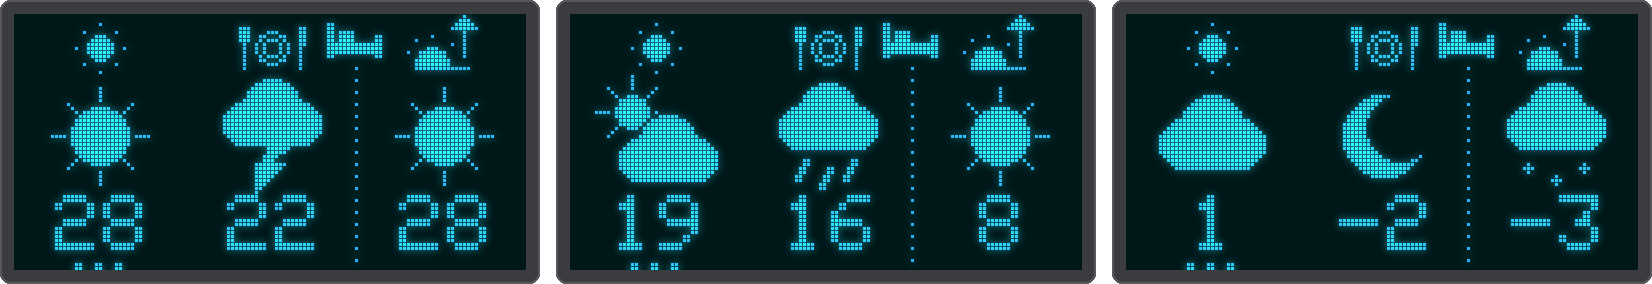
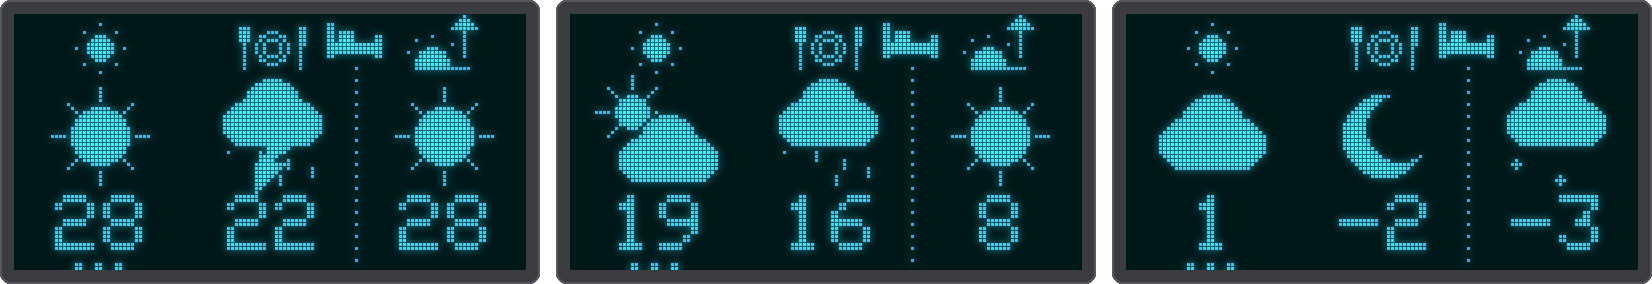
Kids weather screen: rain and snow fall onto the numbers
On the weather screen the rain now falls from its cloud and splashes on the
top edge of the column's number; drops beside the number vanish without a
splash, so the digits stay readable. Snow drifts down and melts into the
number. How hard it rains or snows in the part's wettest hour sets the
number and speed of the drops or flakes: drizzle (under 0.5 mm), rain (to
2 mm), heavy (to 5 mm), a downpour. A thunderstorm gets the same rain beside
its bolt. The screen animates (15 frames per second) only while a column
shows rain, a storm or snow; the clothes screen stays still.

The clouds of these pictures sit 1 px higher to give the drops room. The
manual gets animated pictures of a wet and a snowy day.

Claude-Session: https://claude.ai/code/session_01BgTn1WcpSUXFywgbLdTvzG

diff --git a/firmware/src/display.cpp b/firmware/src/display.cpp
@@ -1019,7 +1019,46 @@ static void drawSmallSky(Adafruit_SSD1306 &d, int cx, int cy, int r, int light) 
     else drawSmallSun(d, cx, cy, r);
 }
 
-static void drawSmallWeather(Adafruit_SSD1306 &d, int cx, int weather, int light) {
+// Rain or snow falling from a small cloud onto the column's number, animated by `frame` (15 per second).
+// `level` (KIDS_PRECIP_*) sets how many drops or flakes there are and how fast they fall. Drops splash on the
+// top edge of the number (x numLeft..numRight) and vanish beside it; flakes melt into it.
+static void drawSmallPrecip(Adafruit_SSD1306 &d, int cx, bool snow, int level, unsigned long frame, int numLeft,
+                            int numRight) {
+    static const uint8_t DROPS[4] = { 2, 3, 5, 7 }, FLAKES[4] = { 2, 3, 4, 6 };
+    static const uint8_t DROP_SPEED[4] = { 1, 2, 2, 3 };   // px per frame
+    static const uint8_t DROP_LEN[4] = { 2, 2, 3, 3 };
+    const int top = 34, ground = 44;                       // under the cloud, just above the number (y 45)
+    const unsigned fall = ground - top + 1;
+    if (level < 0 || level > 3) level = 0;
+    unsigned n = snow ? FLAKES[level] : DROPS[level];
+    unsigned long steps = snow ? (level >= KIDS_PRECIP_HEAVY ? frame : frame / 2) : frame * DROP_SPEED[level];
+    for (unsigned k = 0; k < n; k++) {
+        unsigned long t = steps + k * fall * 7 / n;        // every drop on its own cycle
+        unsigned cycle = (unsigned)(t / fall), pos = (unsigned)(t % fall);
+        int x = cx - 11 + (int)((k * 7 + cycle * 5 + k * cycle * 3) % 23);   // a new place every cycle
+        int y = top + (int)pos;
+        if (snow) {
+            if (y < top + 1 || y > ground - 1) continue;   // still in the cloud, or melted into the number
+            int fx = x + (int)((cycle + pos / 3) % 2);     // drifting a little
+            d.drawFastHLine(fx - 1, y, 3, SSD1306_WHITE);
+            d.drawFastVLine(fx, y - 1, 3, SSD1306_WHITE);
+            continue;
+        }
+        if (pos + DROP_SPEED[level] >= fall) {             // landing
+            if (x >= numLeft && x <= numRight) {
+                d.drawPixel(x - 1, ground - 1, SSD1306_WHITE);
+                d.drawPixel(x + 1, ground - 1, SSD1306_WHITE);
+                d.drawPixel(x - 2, ground, SSD1306_WHITE);
+                d.drawPixel(x + 2, ground, SSD1306_WHITE);
+            }
+            continue;
+        }
+        for (int j = 0; j < DROP_LEN[level] && y - j >= top; j++) d.drawPixel(x, y - j, SSD1306_WHITE);
+    }
+}
+
+static void drawSmallWeather(Adafruit_SSD1306 &d, int cx, int weather, int light, int precip, unsigned long frame,
+                             int numLeft, int numRight) {
     const int y = 17;
     switch (weather) {
     case KIDS_WEATHER_PARTLY:
@@ -1030,26 +1069,20 @@ static void drawSmallWeather(Adafruit_SSD1306 &d, int cx, int weather, int light
     case KIDS_WEATHER_CLOUDY:
         drawSmallCloud(d, cx, y + 4, 1, SSD1306_WHITE);
         break;
+    // Rain, a storm and snow: the cloud a little higher, so they fall a little longer
     case KIDS_WEATHER_RAIN:
-        drawSmallCloud(d, cx, y, 0, SSD1306_WHITE);
-        for (int i = 0; i < 3; i++) {
-            int x = cx - 6 + i * 6, yy = y + 19 + (i % 2) * 2;
-            d.drawLine(x, yy, x - 2, yy + 5, SSD1306_WHITE);
-            d.drawLine(x + 1, yy, x - 1, yy + 5, SSD1306_WHITE);
-        }
+        drawSmallCloud(d, cx, y - 1, 0, SSD1306_WHITE);
+        drawSmallPrecip(d, cx, false, precip, frame, numLeft, numRight);
         break;
     case KIDS_WEATHER_STORM:
         drawSmallCloud(d, cx, y - 1, 0, SSD1306_WHITE);
         d.fillTriangle(cx - 1, y + 15, cx + 5, y + 15, cx - 3, y + 21, SSD1306_WHITE);   // lightning bolt
         d.fillTriangle(cx - 4, y + 20, cx + 3, y + 20, cx - 4, y + 27, SSD1306_WHITE);
+        drawSmallPrecip(d, cx, false, precip, frame, numLeft, numRight);
         break;
     case KIDS_WEATHER_SNOW:
-        drawSmallCloud(d, cx, y, 0, SSD1306_WHITE);
-        for (int i = 0; i < 3; i++) {
-            int x = cx - 7 + i * 7, yy = y + 21 + (i % 2) * 3;
-            d.drawFastHLine(x - 1, yy, 3, SSD1306_WHITE);
-            d.drawFastVLine(x, yy - 1, 3, SSD1306_WHITE);
-        }
+        drawSmallCloud(d, cx, y - 1, 0, SSD1306_WHITE);
+        drawSmallPrecip(d, cx, true, precip, frame, numLeft, numRight);
         break;
     case KIDS_WEATHER_WIND:
         for (int i = 0; i < 3; i++) {
@@ -1138,7 +1171,7 @@ static void drawNightDivider(Adafruit_SSD1306 &d, int column) {
 }
 
 void renderKidsDayStrip(Adafruit_SSD1306 &d, const KidsColumn* cols, size_t count, int nowColumn,
-                        int nightBefore, bool weather) {
+                        int nightBefore, bool weather, unsigned long frame) {
     d.clearDisplay();
     d.setTextColor(SSD1306_WHITE);
     d.setTextWrap(false);
@@ -1151,10 +1184,10 @@ void renderKidsDayStrip(Adafruit_SSD1306 &d, const KidsColumn* cols, size_t coun
             d.setCursor(cx - 5, 26);
             d.print('?');
         } else if (weather) {
-            drawSmallWeather(d, cx, c.weather, c.light);
             char num[8];
             snprintf(num, sizeof(num), "%d", c.temp);
             int w = (int)strlen(num) * 12 - 2;
+            drawSmallWeather(d, cx, c.weather, c.light, c.precip, frame, cx - w / 2, cx - w / 2 + w - 1);
             d.setTextSize(2);
             d.setCursor(cx - w / 2, 45);
             d.print(num);

diff --git a/tools/screenshots_host/screens.cpp b/tools/screenshots_host/screens.cpp
@@ -69,12 +69,13 @@ static size_t columns(const Day& day, KidsColumn* cols, KidsPart* parts, size_t 
     for (size_t i = 0; i < np; i++) {
         KidsOutlook o = kidsPartOutlook(hours, parts[i], LIMITS);
         int shown = kidsShownPart(parts[i].part, parts[i].now, day.now, evening);
-        cols[i] = KidsColumn{ shown, o.valid, o.outfit, o.weather, o.light, o.tempC };
+        cols[i] = KidsColumn{ shown, o.valid, o.outfit, o.weather, o.light, o.tempC, o.precip };
     }
     return np;
 }
 
-static void dayStrip(const Day& day, bool weather, bool nightColumn = false, int evening = KIDS_DINNER_HOUR) {
+static void dayStrip(const Day& day, bool weather, bool nightColumn = false, int evening = KIDS_DINNER_HOUR,
+                     unsigned long frame = 0) {
     KidsPart parts[3];
     KidsColumn cols[3];
     size_t np = columns(day, cols, parts, 3, nightColumn, evening);
@@ -83,7 +84,7 @@ static void dayStrip(const Day& day, bool weather, bool nightColumn = false, int
         if (parts[i].now) nowColumn = (int)i;
         if (parts[i].afterSleep && i > 0 && nightBefore < 0) nightBefore = (int)i;
     }
-    renderKidsDayStrip(d, cols, np, nowColumn, nightBefore, weather);
+    renderKidsDayStrip(d, cols, np, nowColumn, nightBefore, weather, frame);
 }
 
 // 10:00 in autumn: 12 in the morning, warming up to 19, rain in the evening
@@ -105,6 +106,19 @@ static Hour winterMorning(int h) {
     if (h < 12) x.rainMm = 0.5f;
     return x;
 }
+// 10:00 on a wet day: drizzle this morning, heavy rain this afternoon, a downpour with thunder at dinner
+static Hour wetDay(int h) {
+    if (h < 12) return Hour{ 13, 0.3f, 15, 51 };
+    if (h < 18) return Hour{ 15, 3.0f, 20, 63 };
+    return Hour{ 12, 8.0f, 30, 95 };
+}
+// 10:00 in winter: light snow this morning, heavy snow this afternoon, snowing hard at dinner
+static Hour snowDay(int h) {
+    if (h < 12) return Hour{ -1, 0.3f, 10, 71 };
+    if (h < 18) return Hour{ -2, 3.0f, 15, 73 };
+    return Hour{ -4, 6.0f, 15, 75 };
+}
+
 // 13:00 in summer: hot and sunny, a thunderstorm in the evening
 static Hour summerAfternoon(int h) {
     Hour x = { h < 18 ? 28.0f : 22.0f, 0, 20, h < 18 ? 0 : (h < 20 ? 95 : 2) };
@@ -132,6 +146,13 @@ static void kidsScreens() {
     // The sunset evening instead of dinner: a summer afternoon and a winter morning
     dayStrip(makeDay(13, 6, 21, summerAfternoon), true, false, KIDS_SUNSET_EVENING);   frame("kids-sunset", 0);
     dayStrip(makeDay(8, 8, 17, winterMorning), true, false, KIDS_SUNSET_EVENING);      frame("kids-sunset", 1);
+    // Rain and snow falling on the numbers, from drizzle to a downpour
+    for (int f = 0; f < 45; f++) {
+        dayStrip(makeDay(10, 7, 19, wetDay), true, false, KIDS_DINNER_HOUR, f);  frame("kids-rain", f);
+    }
+    for (int f = 0; f < 45; f++) {
+        dayStrip(makeDay(10, 8, 17, snowDay), true, false, KIDS_DINNER_HOUR, f); frame("kids-snow", f);
+    }
 
     // Leaves blowing over the autumn evening's weather screen
     initWindAnimation(WIND_AREA_KIDS);
@@ -180,7 +201,7 @@ static void village(const VillageScene& s, int windFrames) {
     }
     KidsOutlook o = kidsNowOutlook(hours, s.day.count, LIMITS);
     int part = partOfDay(s.day.now, KIDS_DINNER_HOUR);
-    KidsColumn col = { kidsShownPart(part, true, s.day.now, KIDS_DINNER_HOUR), o.valid, o.outfit, o.weather, o.light, o.tempC };
+    KidsColumn col = { kidsShownPart(part, true, s.day.now, KIDS_DINNER_HOUR), o.valid, o.outfit, o.weather, o.light, o.tempC, o.precip };
     bool any = s.day.count > 0;
     initWindAnimation(WIND_AREA_RIDE);
     hostSeed(5);

diff --git a/firmware/src/main.cpp b/firmware/src/main.cpp
@@ -509,7 +509,7 @@ static size_t kidsColumns(KidsColumn* cols, KidsPart* parts, size_t max, bool ni
         // One number per part, shown on the weather screen and the one the outfit goes by
         KidsOutlook o = kidsPartOutlook(hours, parts[i], kidsLimits);
         int shown = kidsShownPart(parts[i].part, parts[i].now, localHours[0], kidsEveningStart());
-        cols[i] = KidsColumn{ shown, o.valid, o.outfit, o.weather, o.light, kidsShownTemp((float)o.tempC) };
+        cols[i] = KidsColumn{ shown, o.valid, o.outfit, o.weather, o.light, kidsShownTemp((float)o.tempC), o.precip };
     }
     return np;
 }
@@ -517,16 +517,22 @@ static size_t kidsColumns(KidsColumn* cols, KidsPart* parts, size_t max, bool ni
 /**
  * Kids variant: the next three parts of the day, as outfits or as weather
  */
+static bool kidsPrecipFalling = false;   // the weather screen shows rain or snow: it animates
+
 void renderKids(bool weather) {
     KidsPart parts[3];
     KidsColumn cols[3];
     size_t np = kidsColumns(cols, parts, 3, kidsNightColumn);
     int nowColumn = -1, nightBefore = -1;
+    bool falling = false;
     for (size_t i = 0; i < np; i++) {
         if (parts[i].now) nowColumn = (int)i;
         if (parts[i].afterSleep && i > 0 && nightBefore < 0) nightBefore = (int)i;
+        falling |= cols[i].valid && (cols[i].weather == KIDS_WEATHER_RAIN || cols[i].weather == KIDS_WEATHER_STORM ||
+                                     cols[i].weather == KIDS_WEATHER_SNOW);
     }
-    renderKidsDayStrip(display, cols, np, nowColumn, nightBefore, weather);
+    kidsPrecipFalling = weather && falling;
+    renderKidsDayStrip(display, cols, np, nowColumn, nightBefore, weather, millis() / RAIN_FRAME_INTERVAL);
 }
 
 /**
@@ -540,7 +546,7 @@ void renderKidsVillage() {
     KidsOutlook o = kidsNowOutlook(hours, count, kidsLimits);
     int part = count ? partOfDay(localHours[0], kidsEveningStart()) : KIDS_PART_MORNING;
     KidsColumn col = { count ? kidsShownPart(part, true, localHours[0], kidsEveningStart()) : part, o.valid, o.outfit,
-                       o.weather, o.light, kidsShownTemp((float)o.tempC) };
+                       o.weather, o.light, kidsShownTemp((float)o.tempC), o.precip };
     WeatherData weather = getCurrentWeather();
     char tempStr[8];
     snprintf(tempStr, sizeof(tempStr), "%d%c", kidsShownTemp(weather.tempC), weatherUnits == "imperial" ? 'F' : 'C');
@@ -1326,6 +1332,7 @@ void loop() {
             } else if (state.windAnimationActive) {
                 stopWindAnimation();
             }
+            if (screen == SCREEN_WEATHER && kidsPrecipFalling) state.displayDirty = true;   // rain and snow fall
         } else if (screen == SCREEN_COUNTDOWN) {
             KidsCountdown countdown = kidsCountdownNow();
             if (countdown.active && countdown.sleeps == 0) state.displayDirty = true;   // confetti on the day itself

diff --git a/firmware/lib/motologic/motologic.cpp b/firmware/lib/motologic/motologic.cpp
@@ -141,8 +141,9 @@ static int wetRank(int weather) {
 }
 
 KidsOutlook kidsWindowOutlook(const KidsHour* hours, size_t from, size_t to, const KidsLimits& l) {
-    KidsOutlook o = { false, OUTFIT_MILD, KIDS_WEATHER_CLEAR, false, 0, 0, (int)from, KIDS_LIGHT_DAY };
-    float tempSum = 0, tempMax = -1000;
+    KidsOutlook o = { false, OUTFIT_MILD, KIDS_WEATHER_CLEAR, false, 0, 0, (int)from, KIDS_LIGHT_DAY,
+                      KIDS_PRECIP_DRIZZLE };
+    float tempSum = 0, tempMax = -1000, wetMm = 0;
     int n = 0, nights = 0, wettest = KIDS_WEATHER_CLEAR;
     int skyCount[7] = { 0, 0, 0, 0, 0, 0, 0 };
     for (size_t i = from; i < to; i++) {
@@ -151,6 +152,7 @@ KidsOutlook kidsWindowOutlook(const KidsHour* hours, size_t from, size_t to, con
         int w = kidsHourWeather(h, l);
         if (isWet(h, w)) {
             if (wetRank(w) > wetRank(wettest)) wettest = w;
+            if (h.rainMm > wetMm) wetMm = h.rainMm;
         } else if (wetRank(w) == 0) {
             skyCount[w]++;
         } else {
@@ -168,6 +170,7 @@ KidsOutlook kidsWindowOutlook(const KidsHour* hours, size_t from, size_t to, con
     o.light = o.night ? KIDS_LIGHT_DARK : KIDS_LIGHT_DAY;
     if (wetRank(wettest) > 0) {
         o.weather = wettest;
+        o.precip = kidsPrecipLevel(wetMm);
     } else {
         static const int sky[4] = { KIDS_WEATHER_CLEAR, KIDS_WEATHER_PARTLY, KIDS_WEATHER_CLOUDY, KIDS_WEATHER_WIND };
         int best = KIDS_WEATHER_CLEAR;
@@ -230,6 +233,13 @@ KidsOutlook kidsNowOutlook(const KidsHour* hours, size_t count, const KidsLimits
     o.tempC = (int)lroundf(hours[0].tempC);
     o.outfit = outfitFor(hours[0].tempC, o.weather, o.night, l);
     return o;
+}
+
+int kidsPrecipLevel(float mm) {
+    if (!(mm >= 0.5f)) return KIDS_PRECIP_DRIZZLE;
+    if (mm < 2.0f) return KIDS_PRECIP_RAIN;
+    if (mm < 5.0f) return KIDS_PRECIP_HEAVY;
+    return KIDS_PRECIP_DOWNPOUR;
 }
 
 int partOfDay(int localHour, int dinnerHour) {

diff --git a/test/test_logic/test_logic.cpp b/test/test_logic/test_logic.cpp
@@ -446,6 +446,28 @@ void test_kids_now_outlook() {
     TEST_ASSERT_FALSE(kidsNowOutlook(h, 5, K).valid);
 }
 
+void test_kids_precip_level() {
+    TEST_ASSERT_EQUAL(KIDS_PRECIP_DRIZZLE, kidsPrecipLevel(0.2f));
+    TEST_ASSERT_EQUAL(KIDS_PRECIP_DRIZZLE, kidsPrecipLevel(0.49f));
+    TEST_ASSERT_EQUAL(KIDS_PRECIP_RAIN, kidsPrecipLevel(0.5f));
+    TEST_ASSERT_EQUAL(KIDS_PRECIP_RAIN, kidsPrecipLevel(1.9f));
+    TEST_ASSERT_EQUAL(KIDS_PRECIP_HEAVY, kidsPrecipLevel(2.0f));
+    TEST_ASSERT_EQUAL(KIDS_PRECIP_DOWNPOUR, kidsPrecipLevel(5.0f));
+    TEST_ASSERT_EQUAL(KIDS_PRECIP_DRIZZLE, kidsPrecipLevel(NAN));
+
+    // A part goes by its wettest hour
+    KidsHour h[3] = { hr(10, 0.6f, 61), hr(10, 3.0f, 63), hr(10, 0, 1) };
+    KidsOutlook o = kidsWindowOutlook(h, 0, 3, K);
+    TEST_ASSERT_EQUAL(KIDS_WEATHER_RAIN, o.weather);
+    TEST_ASSERT_EQUAL(KIDS_PRECIP_HEAVY, o.precip);
+    TEST_ASSERT_EQUAL(KIDS_PRECIP_RAIN, kidsWindowOutlook(h, 0, 1, K).precip);
+    // Snow too
+    KidsHour s[2] = { hr(-1, 6.0f, 75), hr(-1, 0, 3) };
+    o = kidsWindowOutlook(s, 0, 2, K);
+    TEST_ASSERT_EQUAL(KIDS_WEATHER_SNOW, o.weather);
+    TEST_ASSERT_EQUAL(KIDS_PRECIP_DOWNPOUR, o.precip);
+}
+
 void test_part_of_day() {
     TEST_ASSERT_EQUAL(KIDS_PART_NIGHT, partOfDay(6, 18));
     TEST_ASSERT_EQUAL(KIDS_PART_MORNING, partOfDay(7, 18));
@@ -968,6 +990,7 @@ int main(int, char**) {
     RUN_TEST(test_kids_window_highest_temperature);
     RUN_TEST(test_kids_part_temperature);
     RUN_TEST(test_kids_now_outlook);
+    RUN_TEST(test_kids_precip_level);
     RUN_TEST(test_part_of_day);
     RUN_TEST(test_kids_shown_part);
     RUN_TEST(test_light_at);

diff --git a/firmware/include/display.h b/firmware/include/display.h
@@ -155,13 +155,14 @@ struct KidsColumn {
     int  weather;   // KIDS_WEATHER_* (weather screen)
     int  light;     // KIDS_LIGHT_*: sun, setting sun or moon
     int  temp;      // the part's temperature, as shown (weather screen): see kidsPartOutlook
+    int  precip;    // KIDS_PRECIP_*: how hard it rains or snows (the falling drops or flakes)
 };
 // Kids variant: the next parts of the day in up to three columns, outfits (weather = false) or weather
 // pictures with the part's temperature (the night column: a bed instead of an outfit). nowColumn gets dots
 // underneath (-1 = none); nightBefore is the column a night lies before (a dotted line with a bed; -1 or 0 =
-// none).
+// none). Rain and snow fall from their clouds onto the numbers, moved on by `frame` (15 per second).
 void renderKidsDayStrip(Adafruit_SSD1306 &display, const KidsColumn* cols, size_t count, int nowColumn,
-                        int nightBefore, bool weather);
+                        int nightBefore, bool weather, unsigned long frame);
 // Kids variant: the countdown screen. The picture of the event (a cake with a candle per year and the initial,
 // a pumpkin, Sinterklaas' mitre and staff, a Christmas tree), the number of sleeps and, up to ten, as many
 // beds to count. On the day itself the picture with falling confetti (timeMs moves it).

diff --git a/firmware/lib/motologic/motologic.h b/firmware/lib/motologic/motologic.h
@@ -138,7 +138,15 @@ struct KidsOutlook {
     int  maxTempC;   // highest temperature, rounded
     int  hour;       // index of the middle hour
     int  light;      // KIDS_LIGHT_*: sun, setting sun or moon for a clear sky
+    int  precip;     // KIDS_PRECIP_*: how hard it rains or snows (wettest hour), for the animated picture
 };
+
+// How hard it rains or snows in an hour (mm): the number and speed of the drops or flakes on the weather screen
+#define KIDS_PRECIP_DRIZZLE   0   // under 0.5 mm
+#define KIDS_PRECIP_RAIN      1   // 0.5 to under 2 mm
+#define KIDS_PRECIP_HEAVY     2   // 2 to under 5 mm
+#define KIDS_PRECIP_DOWNPOUR  3   // 5 mm and up
+int kidsPrecipLevel(float mm);
 
 // Summary of hours [from, to): the most severe precipitation if there is any (at least 0.2 mm in an
 // hour, or a storm), otherwise the most common sky; outfit from the average temperature.

diff --git a/tools/screen_pictures.py b/tools/screen_pictures.py
@@ -81,7 +81,7 @@ def main():
     for name, columns in layout.items():
         grid(screens[name], columns).save(out / f"{name}.png", optimize=True)
         print("wrote", out / f"{name}.png")
-    for name in ("kids-wind", "report-wind"):
+    for name in ("kids-wind", "report-wind", "kids-rain", "kids-snow"):
         save_gif([device_image(f, scale=3) for f in pictures[name]], out / f"{name}.gif")
         print("wrote", out / f"{name}.gif")
 

diff --git a/docs/kids.md b/docs/kids.md
@@ -77,6 +77,24 @@ rain, thunderstorm, snow, wind) and its temperature: a number to read, without a
 
 ![Weather screens: 10:00 sun 12, partly cloudy 19, rain 16; a winter day with snow -3, cloud 1, moon -2; a summer afternoon sun 28, thunderstorm 22, sun 28 tomorrow; the evening (dinner is over) at sunset 15, rain 9 and wind 17 tomorrow](images/kids-weather.png){ .center }
 
+**Rain and snow fall.** On the weather screen the rain falls from its cloud and splashes on the top of the
+number, and snow drifts down and melts into it. How many drops or flakes there are, and how fast they fall, shows
+how hard it rains or snows in the wettest hour of that part of the day:
+
+| Rain or snow per hour | Drops | Flakes |
+|-----------------------|-------|--------|
+| under 0.5 mm (drizzle) | 2, slow | 2, slow |
+| 0.5 to under 2 mm | 3 | 3, slow |
+| 2 to under 5 mm | 5, faster | 4 |
+| 5 mm and up (a downpour) | 7, fast | 6 |
+
+A thunderstorm has the same rain beside its lightning bolt. The clothes screen does not move: the rain coat says
+enough there.
+
+![A wet day on the weather screen: drizzle this morning, heavy rain this afternoon, a thunderstorm with a downpour at dinner](images/kids-rain.gif){ .center }
+
+![A snowy day: light snow this morning, heavy snow this afternoon, snowing hard at dinner](images/kids-snow.gif){ .center }
+
 **One number per part.** Each part of the day has one temperature that the weather screen shows and the
 outfit goes by, so the number and the picture always match:
 
